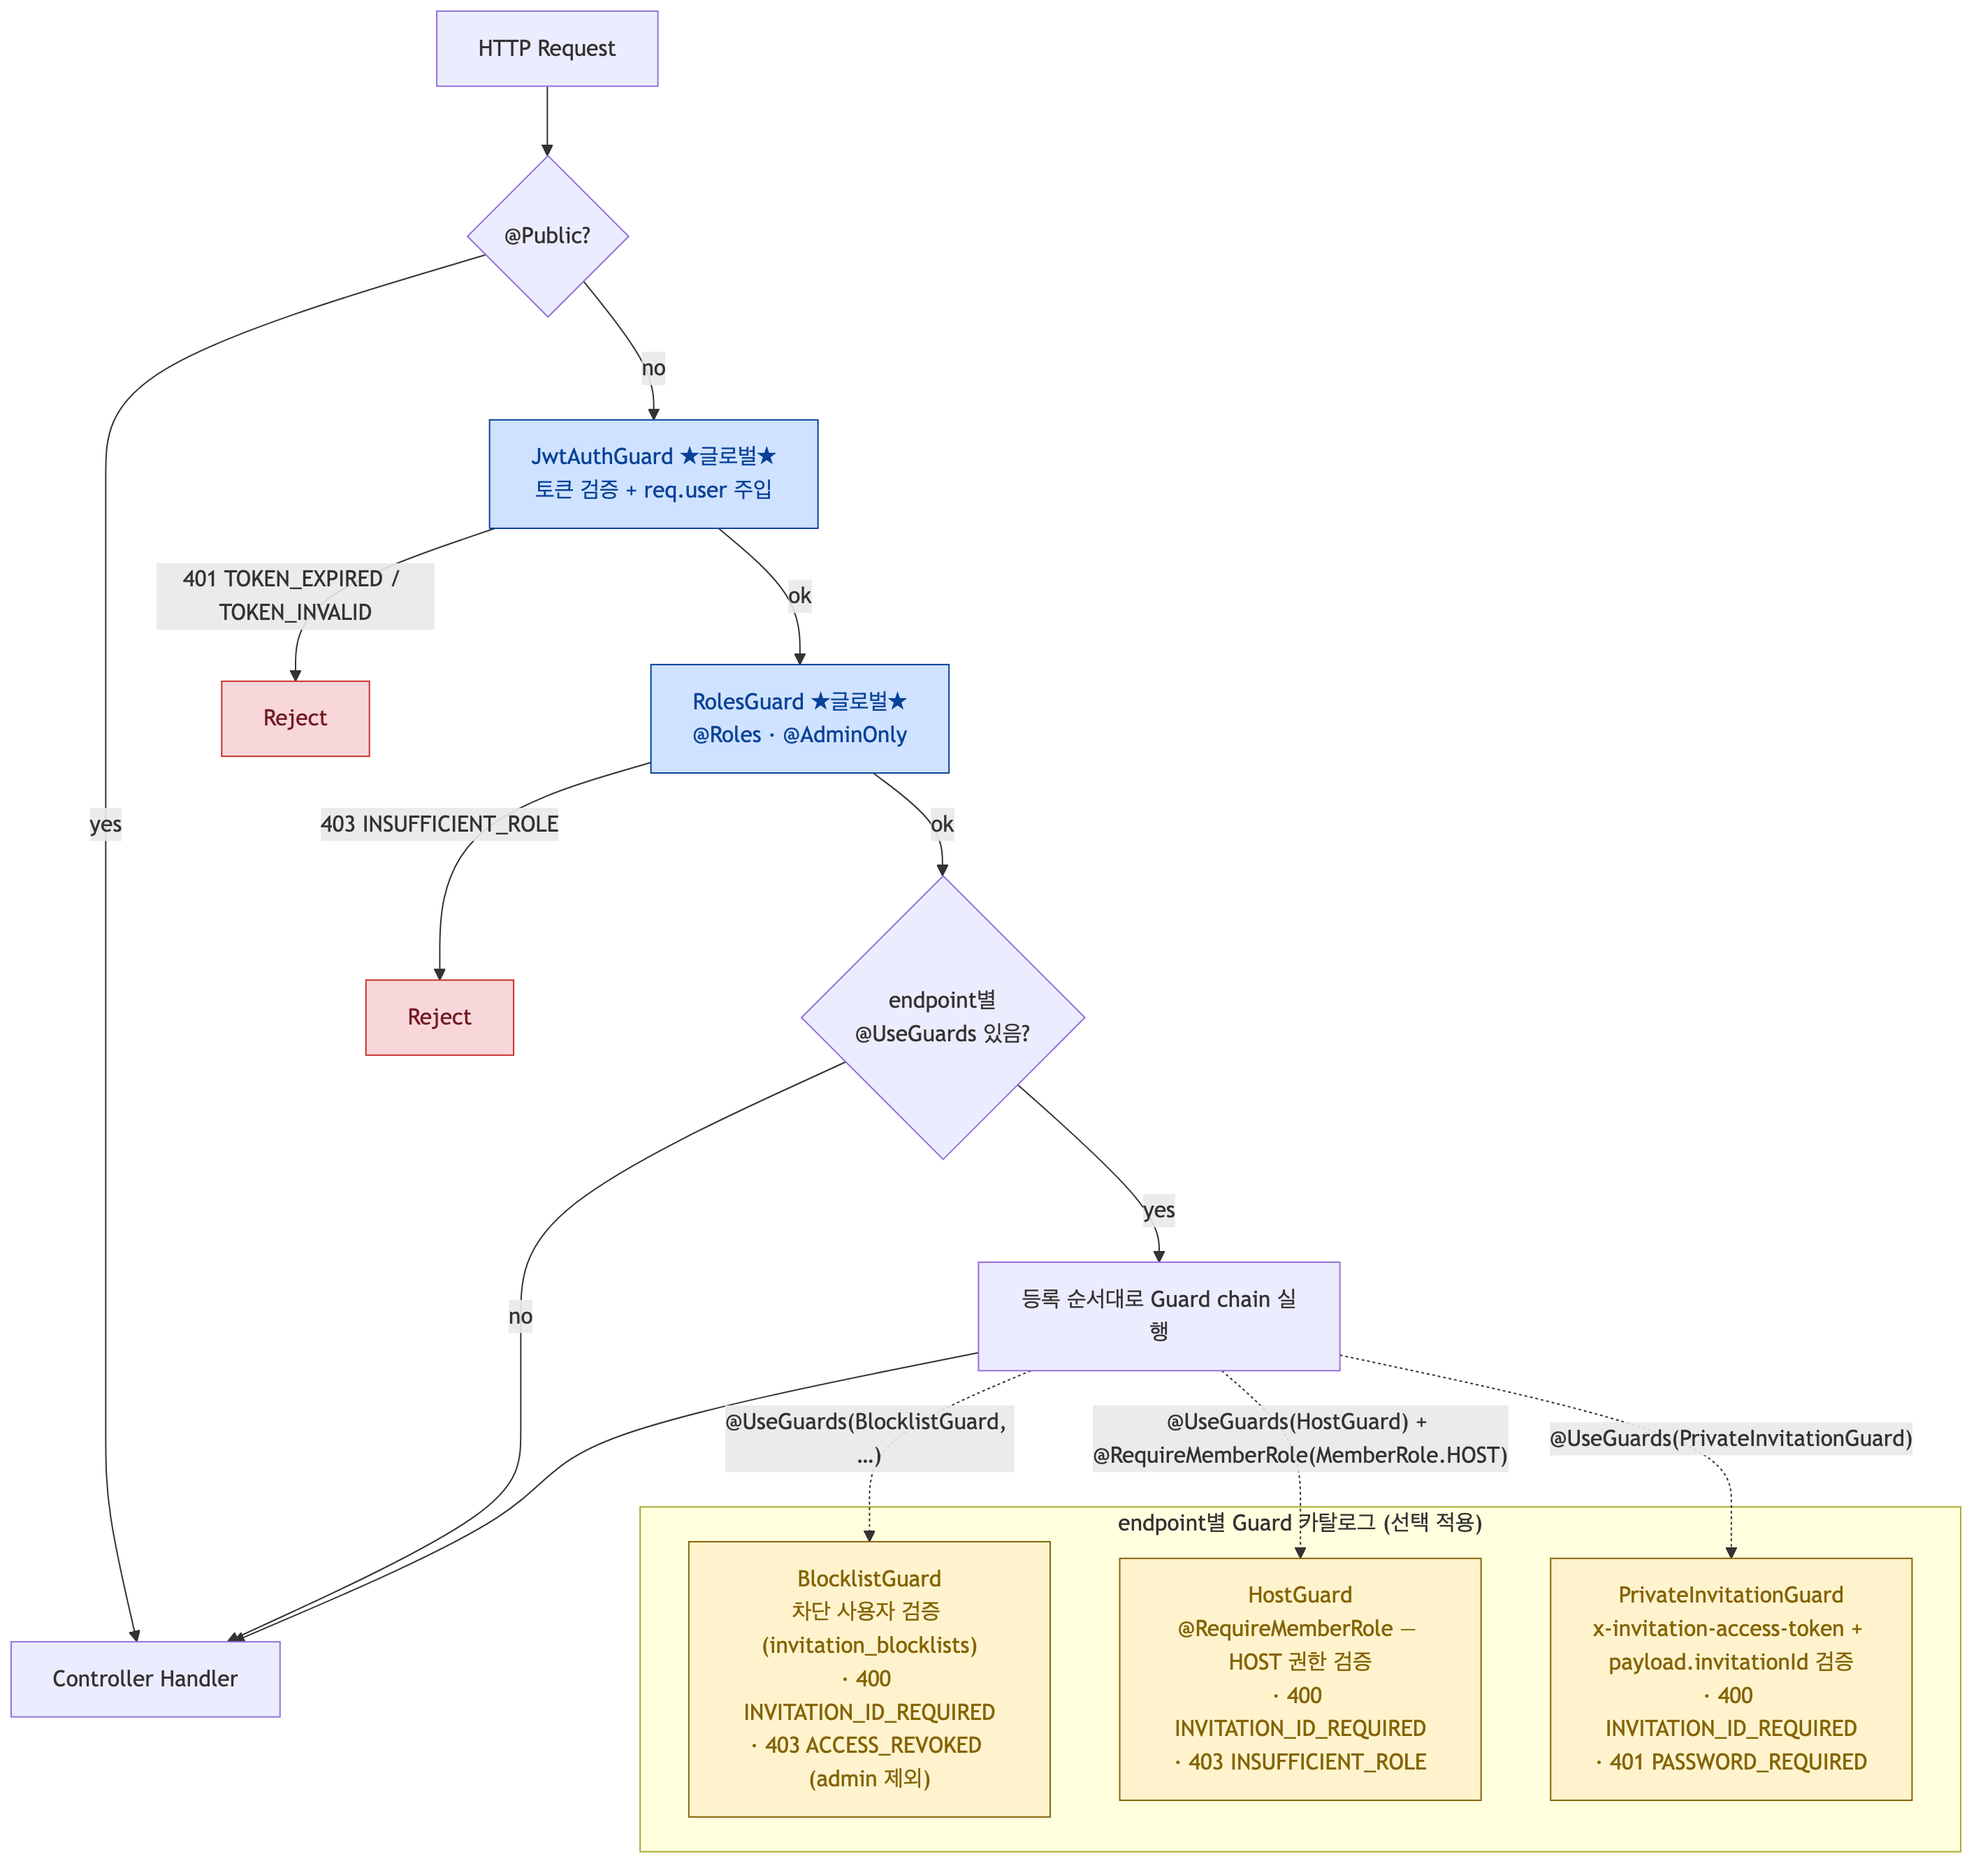
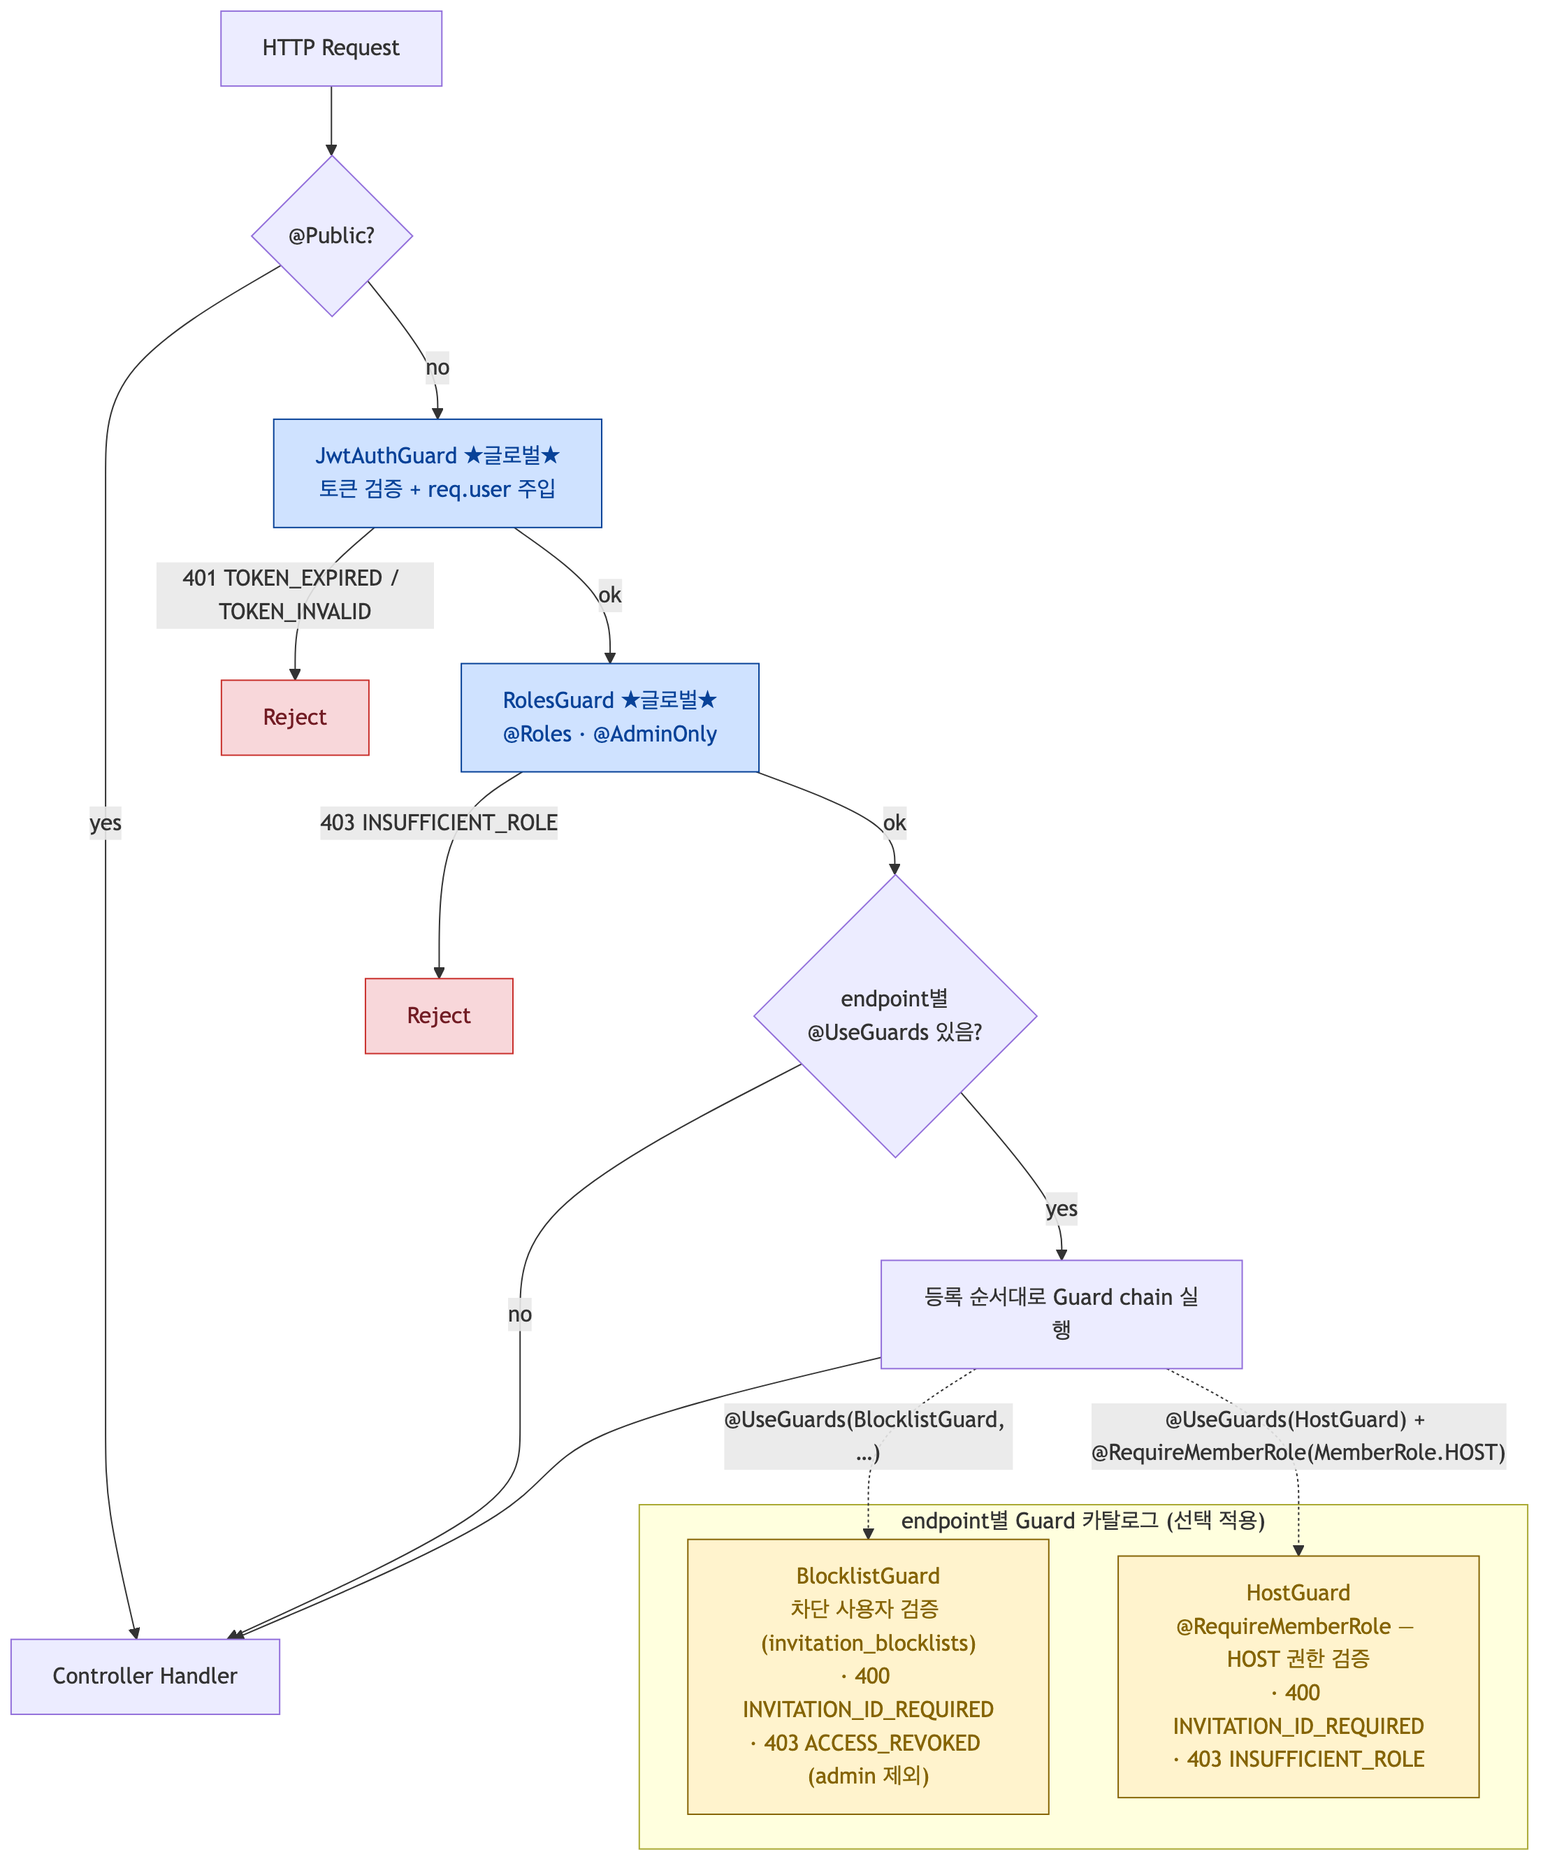
feat(auth): PrivateInvitationGuard 제거 — 링크 받은 사람은 무조건 참석
회의 결정 (하림님 슬랙으로 확인): 'invitations.is_private' 컬럼 자체
미도입. 링크 받은 사람은 무조건 참석 가능한 사양이라 PrivateInvitationGuard
및 관련 코드 제거.

제거 항목:
- common/guards/private-invitation.guard.ts (삭제)
- common/repositories/invitation.repository.ts (placeholder, 사용처 0)
- auth.module.ts: PrivateInvitationGuard / InvitationRepository
  providers·exports에서 제거
- docs/architecture/guard-flow.mmd: 다이어그램에서 PrivateInvitationGuard
  노드 제거 + PNG 재생성

후속 정리:
- error-codes.md의 PASSWORD_REQUIRED 코드는 PR #12에서 함께 제거
- 후속 schema 이슈에서 invitations.is_private 항목 제거

build + lint 통과.

diff --git a/apps/api/src/auth/auth.module.ts b/apps/api/src/auth/auth.module.ts
@@ -5,10 +5,8 @@ import { JwtModule } from '@nestjs/jwt';
 import { BlocklistGuard } from '../common/guards/blocklist.guard';
 import { HostGuard } from '../common/guards/host.guard';
 import { JwtAuthGuard } from '../common/guards/jwt-auth.guard';
-import { PrivateInvitationGuard } from '../common/guards/private-invitation.guard';
 import { RolesGuard } from '../common/guards/roles.guard';
 import { BlocklistRepository } from '../common/repositories/blocklist.repository';
-import { InvitationRepository } from '../common/repositories/invitation.repository';
 import { ParticipantRepository } from '../common/repositories/participant.repository';
 import { AuthController } from './auth.controller';
 import { AuthRepository } from './auth.repository';
@@ -39,18 +37,14 @@ import { AuthService } from './auth.service';
     { provide: APP_GUARD, useClass: RolesGuard },
     ParticipantRepository,
     BlocklistRepository,
-    InvitationRepository,
     HostGuard,
     BlocklistGuard,
-    PrivateInvitationGuard,
   ],
   exports: [
     HostGuard,
     BlocklistGuard,
-    PrivateInvitationGuard,
     ParticipantRepository,
     BlocklistRepository,
-    InvitationRepository,
   ],
 })
 export class AuthModule {}
